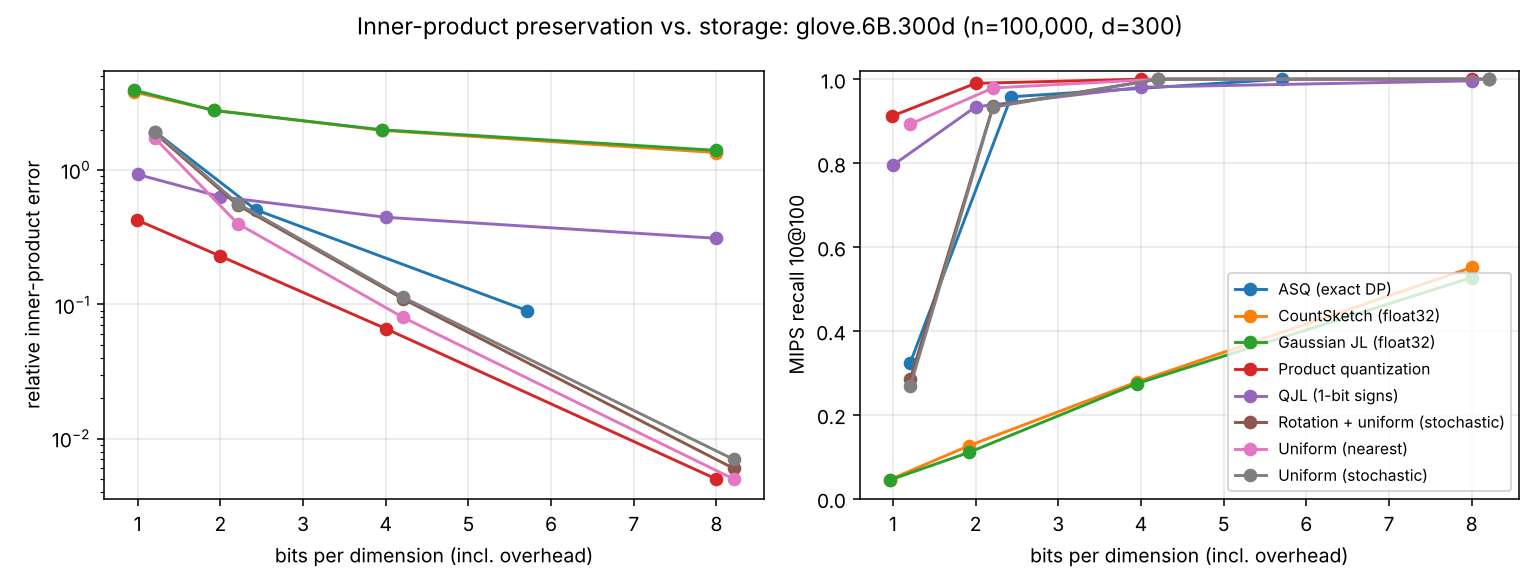
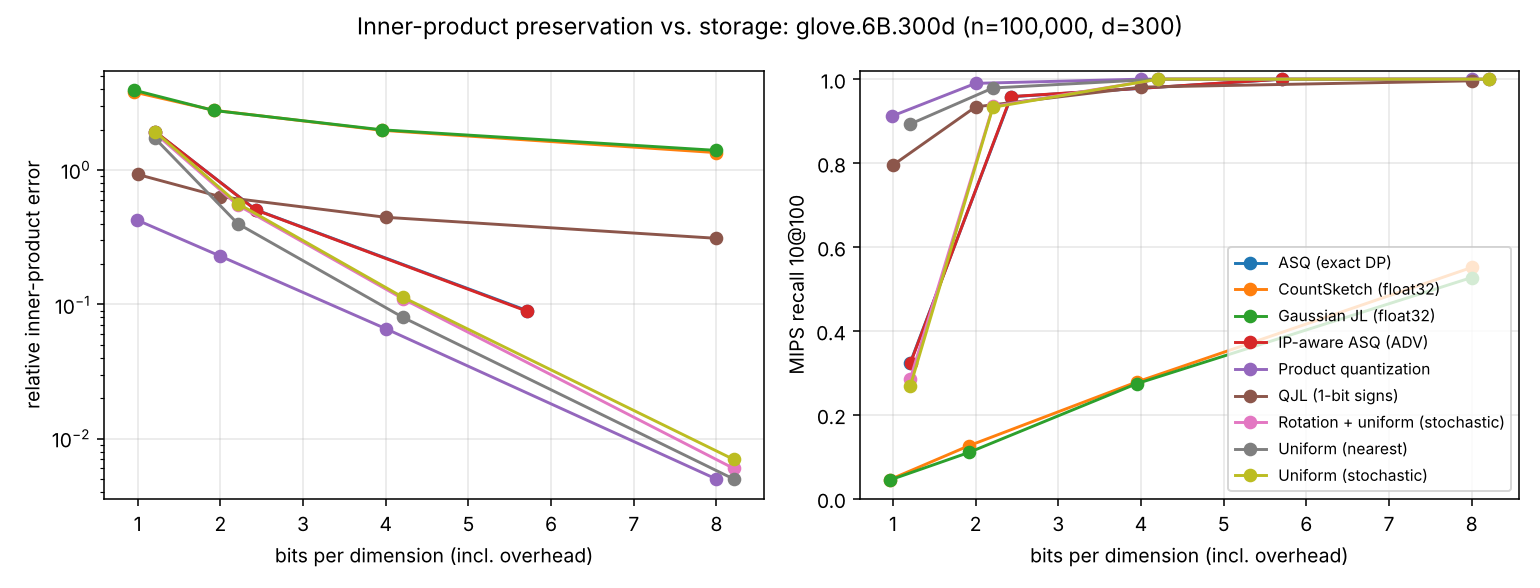
Implement inner-product-aware ASQ (ADV objective) with an exact weighted DP
Weights each coordinate's stochastic-rounding variance by the query second
moment lambda_i = E[x_i^2] (White & Singal, NeurIPS 2026). On outlier-channel
data it cuts 2-bit inner-product error 53% versus plain ASQ (0.161 -> 0.075)
at equal storage; on GloVe-300, where query energy is nearly uniform across
dimensions, it matches ASQ. Adds results, tests and documentation.

diff --git a/ipsketch/methods.py b/ipsketch/methods.py
@@ -219,6 +219,77 @@ class AdaptiveStochasticQuant(Compressor):
         return self.bits * self.d + (1 << self.bits) * FLOAT_BITS  # codes + level table
 
 
+@njit(cache=True)
+def _weighted_asq_levels_sorted(x_sorted: np.ndarray, lam_sorted: np.ndarray, s: int) -> np.ndarray:
+    """Exact weighted ASQ levels for one vector whose values are sorted ascending.
+
+    Minimizes sum_i lam_i * (up_i - x_i) * (x_i - down_i) over s levels chosen
+    from the input values, always including min and max. For consecutive
+    levels at sorted positions j < k, the points strictly between them cost
+        C[j, k] = -L2 + (x_j + x_k) * L1 - x_j * x_k * L0,
+    where L0, L1 and L2 are the sums of lam, lam*x and lam*x^2 over (j, k),
+    read in O(1) from prefix sums. With lam = 1 this is plain ASQ.
+    """
+    d = x_sorted.shape[0]
+    if s >= d:
+        return x_sorted.copy()
+    p0 = np.zeros(d + 1)
+    p1 = np.zeros(d + 1)
+    p2 = np.zeros(d + 1)
+    for i in range(d):
+        w = lam_sorted[i]
+        xi = x_sorted[i]
+        p0[i + 1] = p0[i] + w
+        p1[i + 1] = p1[i] + w * xi
+        p2[i + 1] = p2[i] + w * xi * xi
+
+    INF = 1e300
+    dp = np.full((s, d), INF)
+    parent = np.zeros((s, d), dtype=np.int64)
+    dp[0, 0] = 0.0
+    for k in range(1, s):
+        for j in range(k, d):
+            best = INF
+            arg = 0
+            xj = x_sorted[j]
+            for i in range(k - 1, j):
+                if dp[k - 1, i] >= INF:
+                    continue
+                xi = x_sorted[i]
+                l0 = p0[j] - p0[i + 1]
+                if l0 > 0.0:
+                    l1 = p1[j] - p1[i + 1]
+                    l2 = p2[j] - p2[i + 1]
+                    cost = -l2 + (xi + xj) * l1 - xi * xj * l0
+                else:
+                    cost = 0.0
+                v = dp[k - 1, i] + cost
+                if v < best:
+                    best = v
+                    arg = i
+            dp[k, j] = best
+            parent[k, j] = arg
+
+    idx = np.empty(s, dtype=np.int64)
+    j = d - 1
+    for k in range(s - 1, -1, -1):
+        idx[k] = j
+        j = parent[k, j]
+    return x_sorted[idx]
+
+
+def weighted_asq_levels(x: np.ndarray, lam: np.ndarray, s: int) -> np.ndarray:
+    """Optimal weighted-ASQ levels for one vector x with per-coordinate weights lam.
+
+    Sorts x and carries each weight along with its coordinate before running the
+    exact DP. Returns s sorted levels (fewer if x has fewer than s entries).
+    """
+    order = np.argsort(x, kind="stable")
+    xs = np.ascontiguousarray(x[order], dtype=np.float64)
+    ls = np.ascontiguousarray(np.asarray(lam, dtype=np.float64)[order])
+    return _weighted_asq_levels_sorted(xs, ls, s)
+
+
 class InnerProductAwareASQ(Compressor):
     """Inner-product-aware ASQ: the average-case objective (ADV) from White & Singal (NeurIPS 2026).
 
@@ -232,8 +303,8 @@ class InnerProductAwareASQ(Compressor):
     lambda is estimated from the database X, as a proxy for the query
     distribution (in this benchmark, queries are drawn from the same distribution).
 
-    TODO(Mitesh): implement fit(). See docs/ipasq.md for the plan and tests/test_ipasq.py
-    for the checks your implementation has to pass.
+    Uses an exact O(s d^2) dynamic program over weighted prefix sums; see
+    docs/ipasq.md for the faster algorithms in the paper.
     """
 
     name = "IP-aware ASQ (ADV)"
@@ -242,7 +313,14 @@ class InnerProductAwareASQ(Compressor):
     def fit(self, X):
         self.n, self.d = X.shape
         self.lam = (X.astype(np.float64) ** 2).mean(axis=0)  # lambda_i = E[x_i^2]
-        raise NotImplementedError("implement the weighted DP; see docs/ipasq.md")
+        s = 1 << self.bits
+        rng = np.random.default_rng(self.seed)
+        Xq = np.empty_like(X, dtype=np.float32)
+        for r in range(self.n):
+            lv = weighted_asq_levels(X[r], self.lam, s)
+            Xq[r] = _stochastic_round_to_levels(X[r], lv, rng)
+        self.Xq = Xq
+        return self
 
     def estimate_ip(self, Q):
         return Q @ self.Xq.T

diff --git a/tests/test_methods.py b/tests/test_methods.py
@@ -83,12 +83,12 @@ def test_rotation_helps_with_outlier_channels():
     assert err(RotatedQuant(2)) < err(UniformQuant(2, stochastic=True))
 
 
-@pytest.mark.parametrize("key", [k for k in METHODS if k != "ipasq"])  # ipasq: see test_ipasq.py
+@pytest.mark.parametrize("key", list(METHODS))
 @pytest.mark.parametrize("bits", [1, 4])
 def test_bit_budget_respected(key, bits):
     X, _ = isotropic(300, 64, 1)
     m = METHODS[key](bits, 0).fit(X)
-    if key == "asq":
+    if key in ("asq", "ipasq"):
         assert m.bits_per_vector == bits * 64 + (1 << bits) * 32  # level-table overhead
     elif key in ("uniform", "uniform_stoch", "rotated"):
         assert m.bits_per_vector == bits * 64 + 64

diff --git a/ipsketch/bench.py b/ipsketch/bench.py
@@ -118,7 +118,7 @@ def main():
     p.add_argument("--d", type=int, default=128, help="dimension for synthetic data")
     p.add_argument("--nq", type=int, default=500)
     p.add_argument("--bits", type=int, nargs="+", default=[1, 2, 4, 8])
-    p.add_argument("--methods", nargs="+", default=[m for m in METHODS if m != "ipasq"])
+    p.add_argument("--methods", nargs="+", default=list(METHODS))
     p.add_argument("--asq-n", type=int, default=None, help="evaluate ASQ on the first N vectors only")
     p.add_argument("--seed", type=int, default=0)
     p.add_argument("--out", default="results")

diff --git a/tests/test_ipasq.py b/tests/test_ipasq.py
@@ -1,4 +1,4 @@
-"""Checks for InnerProductAwareASQ. They skip until fit() is implemented."""
+"""Checks for InnerProductAwareASQ (weighted ASQ / the ADV objective)."""
 
 import itertools
 

diff --git a/README.md b/README.md
@@ -2,15 +2,45 @@
 
 **How well do vector compression schemes preserve inner products?**
 
-Inner products are the core operation behind attention, retrieval and maximum-inner-product search (MIPS). Every KV-cache compressor, embedding quantizer and vector index trades memory for inner-product accuracy. This repo compares eight such schemes on the same footing: the same bit budget (with per-vector overhead counted), the same data, and the same metrics.
+Inner products are the core operation behind attention, retrieval and maximum-inner-product search (MIPS). Every KV-cache compressor, embedding quantizer and vector index trades memory for inner-product accuracy. This repo compares nine such schemes on the same footing: the same bit budget (with per-vector overhead counted), the same data, and the same metrics.
 
 | Family | Methods |
 |---|---|
-| Scalar quantization | uniform with nearest rounding; uniform with stochastic (unbiased) rounding; random rotation + stochastic uniform; **adaptive stochastic quantization (ASQ)** with an exact O(s·d²) dynamic program |
+| Scalar quantization | uniform with nearest rounding; uniform with stochastic (unbiased) rounding; random rotation + stochastic uniform; **adaptive stochastic quantization (ASQ)** with an exact O(s·d²) dynamic program; **inner-product-aware ASQ**, which weights each coordinate by the queries' second moment |
 | Sketches | Gaussian Johnson–Lindenstrauss; CountSketch; **QJL**, 1-bit signs of a JL projection plus the norm |
 | Learned codebooks | product quantization (k-means, 256 codes per block) |
 
 Queries stay at full precision. That's the asymmetric setting used in vector search and in KV-cache attention, where the query is fresh and the keys are stored compressed.
+
+## Inner-product-aware ASQ: when weighting by the queries helps
+
+Plain ASQ picks each vector's quantization levels to minimize squared error, treating every coordinate equally. With unbiased rounding, though, the error in an inner product with a query x is
+
+```
+Var[<ŵ, x>] = Σᵢ xᵢ² · VarSSQ(wᵢ, Q)
+```
+
+so averaging over queries weights coordinate i by λᵢ = E[xᵢ²]. Minimizing that weighted objective is the average-case (ADV) objective of White & Singal, *Inner Product Aware Quantization* (NeurIPS 2026, arXiv:2606.00289). `InnerProductAwareASQ` implements it exactly. The DP is plain ASQ's, run over weighted prefix sums Σλ, Σλw and Σλw², and λ is estimated from the database as a stand-in for the query distribution. The tests check its levels against brute-force search, check that it reduces to plain ASQ when every λᵢ = 1, and check that it's unbiased.
+
+| Dataset | Bits/dim | ASQ: IP error / recall@10 | IP-aware ASQ: IP error / recall@10 |
+|---|---:|---:|---:|
+| Outlier channels (d = 128) | 3.0 | 0.161 / 0.557 | **0.075 / 0.777** |
+| Outlier channels (d = 128) | 8.0 | 0.006 / 0.986 | **0.004 / 0.991** |
+| GloVe-300 | 2.43 | 0.507 / 0.580 | 0.506 / 0.578 |
+| GloVe-300 | 5.71 | 0.090 / 0.911 | 0.089 / 0.911 |
+
+At 1 bit the two are identical, because both levels must be the vector's min and max.
+
+**The gain depends on how concentrated the query energy is.** On the outlier-channel data, weighting cuts inner-product error by 53% at the same storage and raises recall@10 from 0.56 to 0.78. On GloVe it changes nothing. The second moments explain why:
+
+| | Outlier channels | GloVe-300 |
+|---|---:|---:|
+| max λᵢ / median λᵢ | 643 | 3.9 |
+| share of query energy in the top 3% of dimensions | 85% | 6% |
+
+When the query energy is spread almost evenly, the weights are nearly uniform and the objective collapses to plain ASQ. The setting where weighting should matter most is one where a few channels dominate, which is what transformer keys and queries look like, so the next experiment is LLM KV caches.
+
+Encoding costs the same as ASQ, since it's the same O(s·d²) DP. The paper's faster algorithms are the next step (see [`docs/ipasq.md`](docs/ipasq.md)). In the GloVe CSV, IP-aware ASQ's encode times come from a 2-core cloud VM, and every other method's from the M5 Max. On that VM, plain ASQ took 32 s at 4 bits, compared with 13.8 s on the M5 Max.
 
 ## Results: GloVe-300 word embeddings (real data)
 
@@ -69,7 +99,7 @@ Full results for every method at 1, 2, 4 and 8 bits are in [`results/outliers.cs
 2. **QJL is the best data-oblivious method at 1 bit per dimension.** Signs of a Gaussian projection plus one norm reach 0.975 recall 10@100 at 1.0 bits/dim. Uniform quantization reaches 0.74 even with 1.5 bits/dim. Its error then shrinks slowly with more bits, because each sign carries at most one bit of information.
 3. **Spending the budget on full floats is wasteful.** At a fixed bit budget, JL and CountSketch that store float32 coordinates keep only b·d/32 dimensions, and they're the worst methods at every budget. Spending bits on quantization beats spending them on extra projection dimensions.
 4. **Rotation fixes outlier channels.** A random orthogonal rotation before stochastic rounding spreads the outliers across all dimensions. At 2 bits it cuts inner-product error from 0.165 to 0.106 and raises recall 10@100 from 0.90 to 0.99, for one extra matrix multiply.
-5. **Minimizing squared error isn't the same as preserving inner products.** ASQ picks per-vector levels that minimize quantization variance, and it does cut variance about 6× compared with uniform levels on this data (verified in the tests). Yet its inner-product error barely moves (0.161 vs. 0.165 at 2 bits). The queries share the same outlier channels, so the inner-product error is dominated by a few coordinates that the variance objective weights no more heavily than the rest. ASQ also pays for its level table, so 2 bits becomes 3.0 bits/dim and 4 bits becomes 8.0. This gap is what *inner-product-aware* quantization targets (see the roadmap below).
+5. **Minimizing squared error isn't the same as preserving inner products.** ASQ picks per-vector levels that minimize quantization variance, and it does cut variance about 6× compared with uniform levels on this data (verified in the tests). Yet its inner-product error barely moves (0.161 vs. 0.165 at 2 bits). The queries share the same outlier channels, so the inner-product error is dominated by a few coordinates that the variance objective weights no more heavily than the rest. ASQ also pays for its level table, so 2 bits becomes 3.0 bits/dim and 4 bits becomes 8.0. This gap is what *inner-product-aware* quantization targets; see the section above, where weighting by the queries cuts the 2-bit error to 0.075.
 
 All the stochastic methods and sketches are unbiased: their measured bias is within ±0.002 of the true inner product, and the tests check this.
 
@@ -96,12 +126,15 @@ The tests check that:
 - every stochastic quantizer and sketch is unbiased, averaged over 3,000 seeds;
 - the ASQ dynamic program matches brute-force search over all level sets;
 - ASQ beats uniform levels on squared error, and rotation beats plain uniform rounding on outlier data;
+- inner-product-aware ASQ's levels match brute-force search, it reduces to ASQ when every λᵢ = 1, and it beats ASQ by more than 10% on outlier-heavy queries;
 - every method's reported bits per vector matches the budget it claims.
 
 ## Roadmap
 
 - [x] GloVe-300 results at 100K vectors
-- [ ] Inner-product-aware adaptive quantization: quantization objectives that preserve inner products with unseen query vectors, including fast exact and approximate algorithms (White & Singal, NeurIPS 2026)
+- [x] Inner-product-aware adaptive quantization (ADV objective, exact DP), following White & Singal (NeurIPS 2026)
+- [ ] The paper's fast exact and approximate ADV algorithms, plus the worst-case (MDV) objective
+- [ ] Estimate λ from a small query sample instead of the database
 - [ ] Two-stage schemes: MSE quantizer + 1-bit QJL on the residual (TurboQuant-style)
 - [ ] Apply the best methods to a real LLM's KV cache (next project: `sketchkv`)
 

diff --git a/docs/ipasq.md b/docs/ipasq.md
@@ -22,7 +22,10 @@ ADV(w, s) = min over |Q| <= s of  sum_i λ_i * (w_i_up - w_i)(w_i - w_i_down)
 
 Plain ASQ is the special case λ_i = 1. Only the diagonal of E[xxᵀ] matters, because SSQ rounds coordinates independently.
 
-## Step 1: weighted DP (required)
+## Step 1: weighted DP (done)
+
+This is implemented in `weighted_asq_levels` and `InnerProductAwareASQ`, and all the tests pass. Results are in the README.
+
 
 Start from `_asq_levels` in `ipsketch/methods.py`, which is the unweighted O(s·d²) dynamic program.
 
